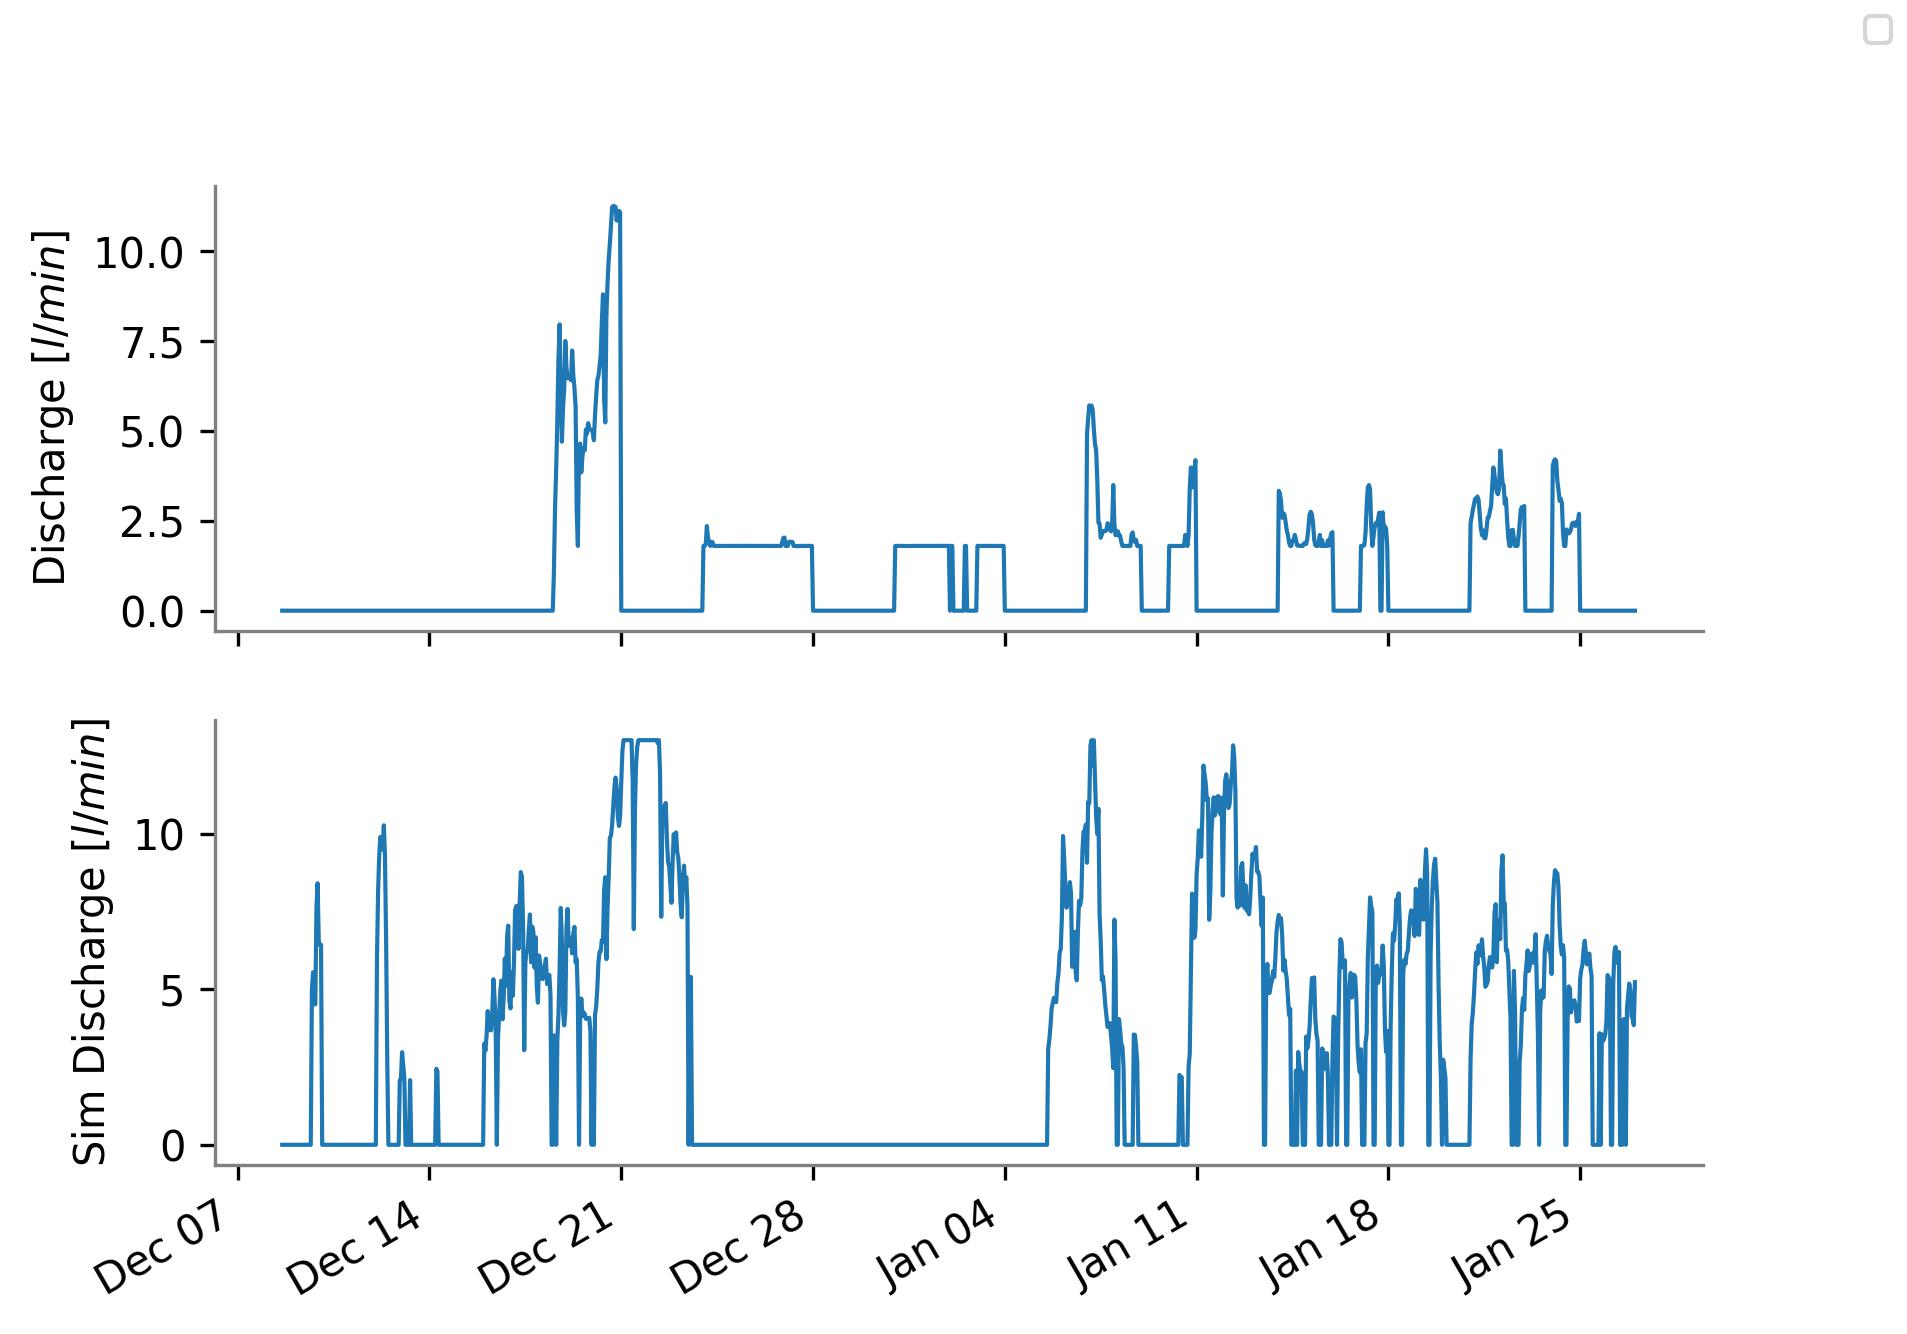
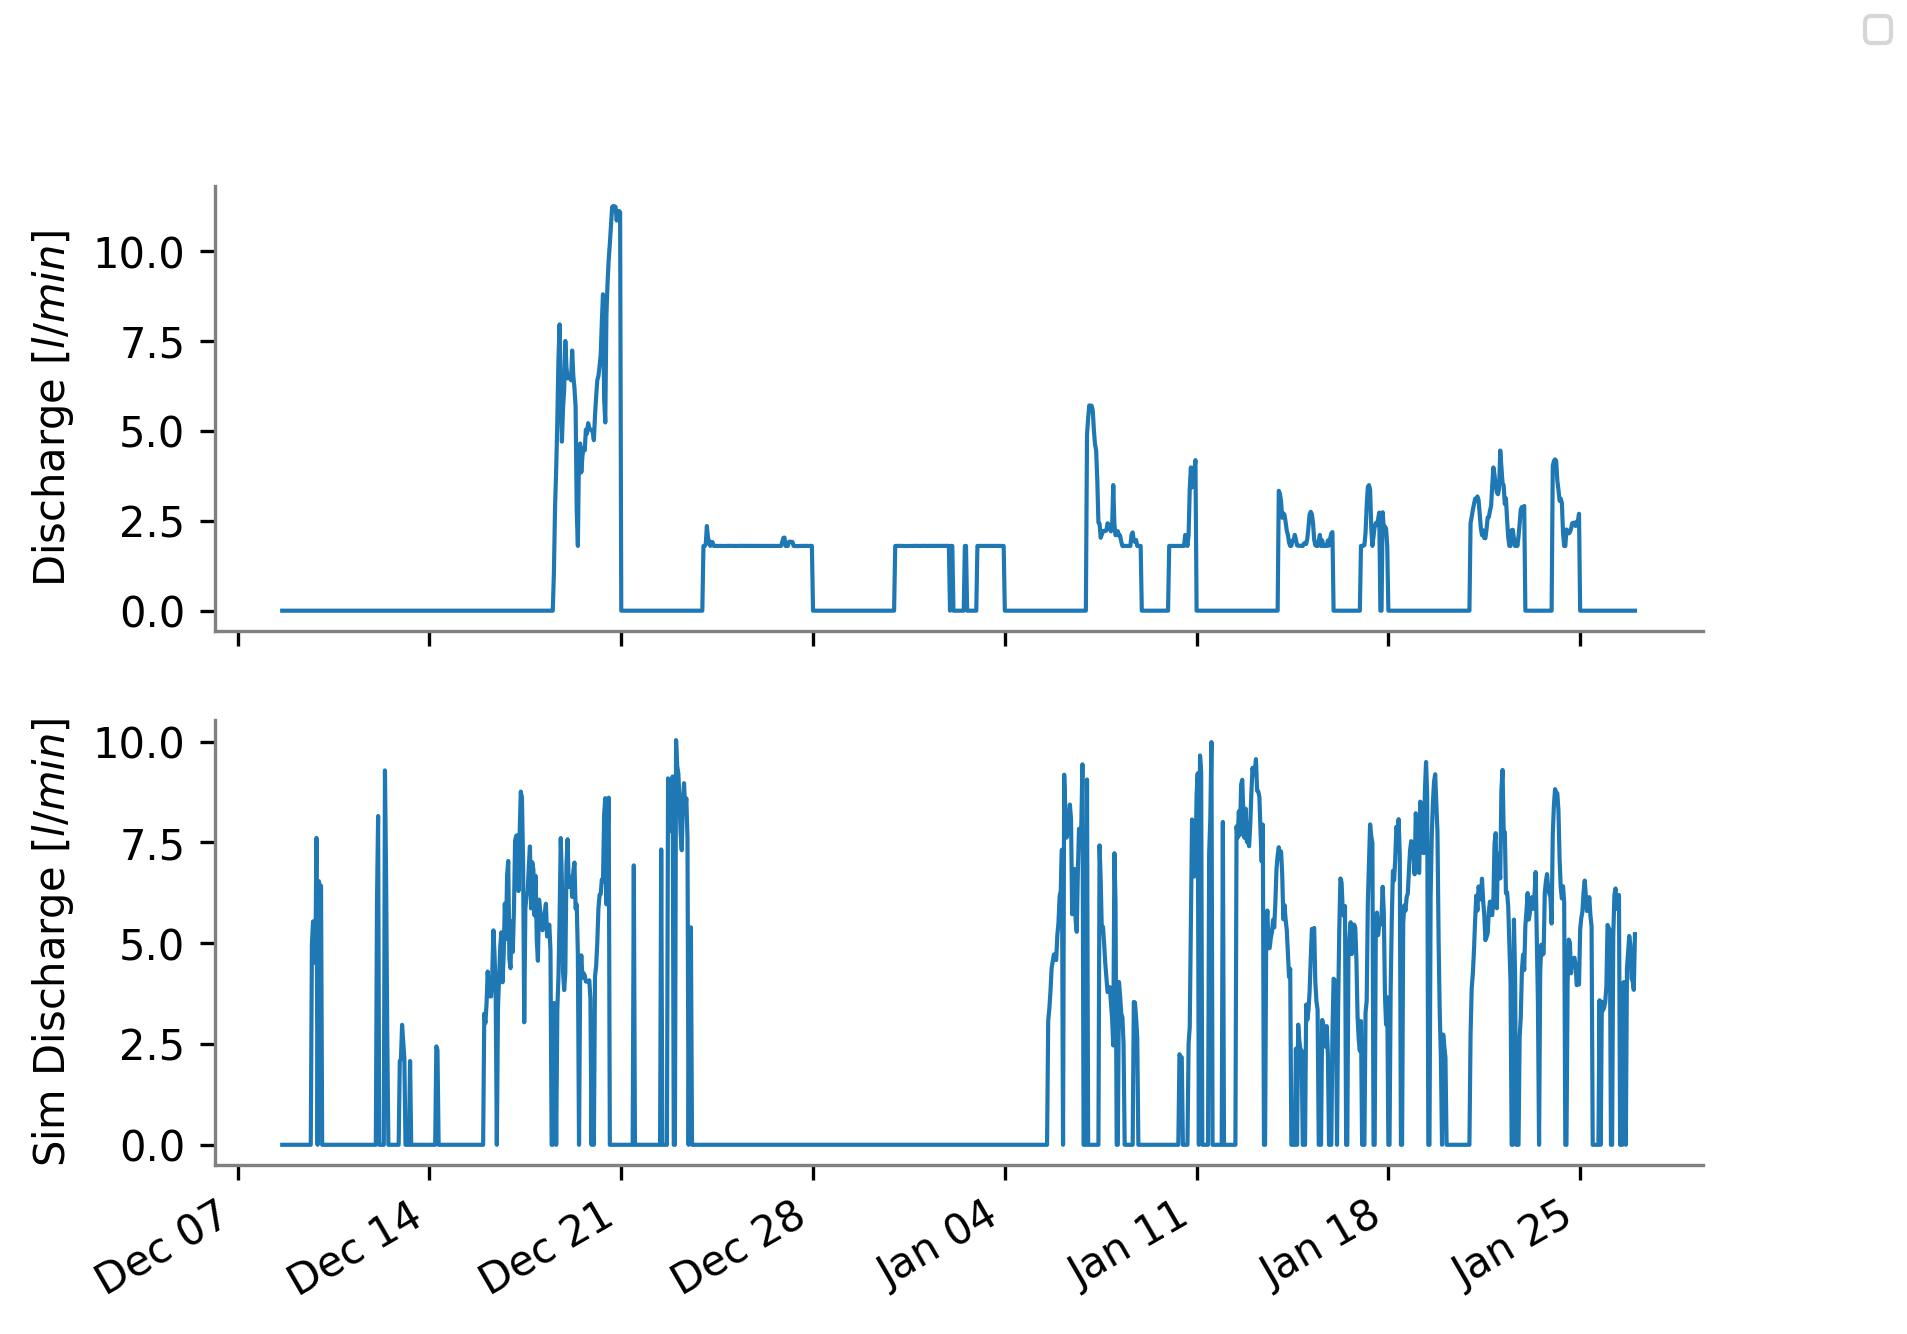
Produced discharge sim comparison

diff --git a/src/plots/simvsreal_dis.py b/src/plots/simvsreal_dis.py
@@ -48,7 +48,7 @@ if __name__ == "__main__":
             df.loc[i, "Discharge_sim"] = 0
         if df.Discharge_sim[i] >= 13:
             df.loc[i, "Discharge_sim"] = 13
-        if df.wind[i] >= 10 or df.temp[i] > -2:
+        if df.wind[i] >= 8 or df.temp[i] > -2 or df.temp[i] < -8:
             df.loc[i, "Discharge_sim"] = 0
     logger.warning(df.Discharge_sim.describe())
     logger.warning(df.Discharge.describe())
